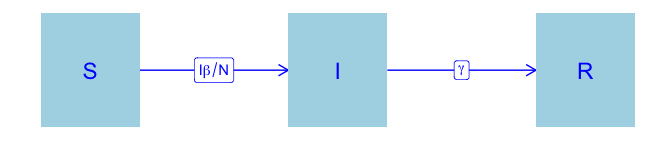
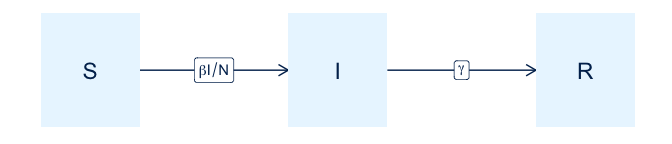
reports and docs

diff --git a/inst/starter_models/shiver/README.md b/inst/starter_models/shiver/README.md
@@ -2,37 +2,25 @@ SHIVER = SEIR + H + V
 ================
 Jennifer Freeman, Steve Walker
 
--   <a href="#packages-used-and-settings"
-    id="toc-packages-used-and-settings">Packages Used and Settings</a>
--   <a href="#model-specification" id="toc-model-specification">Model
-    Specification</a>
--   <a href="#states" id="toc-states">States</a>
--   <a href="#parameters" id="toc-parameters">Parameters</a>
--   <a href="#variable-vaccination-rate"
-    id="toc-variable-vaccination-rate">Variable Vaccination Rate</a>
--   <a href="#dynamics" id="toc-dynamics">Dynamics</a>
--   <a href="#calibration-example" id="toc-calibration-example">Calibration
-    Example</a>
-    -   <a href="#calibration-scenario"
-        id="toc-calibration-scenario">Calibration Scenario</a>
-    -   <a href="#deciding-on-defaults" id="toc-deciding-on-defaults">Deciding
-        on Defaults</a>
-    -   <a href="#simulating-dynamics" id="toc-simulating-dynamics">Simulating
-        Dynamics</a>
-    -   <a href="#estimating-parameters"
-        id="toc-estimating-parameters">Estimating Parameters</a>
-    -   <a href="#re-parameterizing-and-introducing-transformations"
-        id="toc-re-parameterizing-and-introducing-transformations">Re-parameterizing
-        and Introducing Transformations</a>
-    -   <a href="#runge-kutta-4" id="toc-runge-kutta-4">Runge-Kutta 4</a>
-    -   <a href="#fitting-to-multiple-trajectories"
-        id="toc-fitting-to-multiple-trajectories">Fitting to Multiple
-        Trajectories</a>
-    -   <a href="#parameter-identifiability"
-        id="toc-parameter-identifiability">Parameter Identifiability</a>
--   <a href="#model-specification-1" id="toc-model-specification-1">Model
-    Specification</a>
--   <a href="#references" id="toc-references">References</a>
+- [Packages Used and Settings](#packages-used-and-settings)
+- [Model Specification](#model-specification)
+- [States](#states)
+- [Parameters](#parameters)
+- [Variable Vaccination Rate](#variable-vaccination-rate)
+- [Dynamics](#dynamics)
+- [Calibration Example](#calibration-example)
+  - [Calibration Scenario](#calibration-scenario)
+  - [Deciding on Defaults](#deciding-on-defaults)
+  - [Simulating Dynamics](#simulating-dynamics)
+  - [Estimating Parameters](#estimating-parameters)
+  - [Re-parameterizing and Introducing
+    Transformations](#re-parameterizing-and-introducing-transformations)
+  - [Runge-Kutta 4](#runge-kutta-4)
+  - [Fitting to Multiple
+    Trajectories](#fitting-to-multiple-trajectories)
+  - [Parameter Identifiability](#parameter-identifiability)
+- [Model Specification](#model-specification-1)
+- [References](#references)
 
 This model builds on the basic SEIR model, with two additional
 compartments for vaccination and hospitalizations.
@@ -115,22 +103,22 @@ article](https://github.com/canmod/macpan2/blob/main/inst/starter_models/shiver/
 | E        | Number of exposed individuals      |
 | R        | Number of recovered individuals    |
 
-The size of the total population is, $N = S + H + I + V + E + R$, and
+The size of the total population is, $N = S + H + I  + V + E + R$, and
 the disease spreads through homogeneous mixing of the subpopulation
 $N_{\text{mix}}=N -H$.
 
 # Parameters
 
-| variable   | description                                                                                         |
-|------------|-----------------------------------------------------------------------------------------------------|
-| $\phi$     | per capita vaccination rate of susceptibles                                                         |
-| $\rho$     | per capita vaccine waning rate                                                                      |
-| $\beta_S$  | per capita transmission rate for susceptibles (in $N_{\text{mix}}$ population)                      |
-| $\beta_V$  | per capita transmission rate for vaccinated individuals (in $N_{\text{mix}}$ population)            |
-| $\alpha$   | per capita infection rate (average time spent in compartment $E$ is $1/\alpha$)                     |
-| $\gamma_I$ | per capita recovery rate for infected individuals                                                   |
-| $\gamma_H$ | per capita recovery rate for hospitalized individuals                                               |
-| $\sigma$   | per capita rate at which infected individuals develop severe infections and require hospitalization |
+| variable | description |
+|----|----|
+| $\phi$ | per capita vaccination rate of susceptibles |
+| $\rho$ | per capita vaccine waning rate |
+| $\beta_S$ | per capita transmission rate for susceptibles (in $N_{\text{mix}}$ population) |
+| $\beta_V$ | per capita transmission rate for vaccinated individuals (in $N_{\text{mix}}$ population) |
+| $\alpha$ | per capita infection rate (average time spent in compartment $E$ is $1/\alpha$) |
+| $\gamma_I$ | per capita recovery rate for infected individuals |
+| $\gamma_H$ | per capita recovery rate for hospitalized individuals |
+| $\sigma$ | per capita rate at which infected individuals develop severe infections and require hospitalization |
 
 # Variable Vaccination Rate
 
@@ -629,25 +617,25 @@ print(reparameterized_spec)
 #> ---------------------
 #> Default values:
 #> ---------------------
-#>         matrix row col         value
-#>              a          1.684889e+04
-#>              b          1.684889e+04
-#>            rho          5.555556e-03
-#>         beta_s          2.000000e-01
-#>         beta_v          5.000000e-02
-#>          alpha          3.030303e-01
-#>        gamma_i          1.000000e-01
-#>        gamma_h          7.000000e-02
-#>          sigma          1.000000e-01
-#>              N          1.480000e+08
-#>              I          2.718571e+03
-#>              V          1.015657e+04
-#>              E          0.000000e+00
-#>              H          6.300000e+01
-#>              R          0.000000e+00
-#>        logit_p         -4.595120e+00
-#>       log_beta         -4.605170e+00
-#>  log_E_I_ratio         -4.605170e+00
+#>       quantity         value
+#>              a  1.684889e+04
+#>              b  1.684889e+04
+#>            rho  5.555556e-03
+#>         beta_s  2.000000e-01
+#>         beta_v  5.000000e-02
+#>          alpha  3.030303e-01
+#>        gamma_i  1.000000e-01
+#>        gamma_h  7.000000e-02
+#>          sigma  1.000000e-01
+#>              N  1.480000e+08
+#>              I  2.718571e+03
+#>              V  1.015657e+04
+#>              E  0.000000e+00
+#>              H  6.300000e+01
+#>              R  0.000000e+00
+#>        logit_p -4.595120e+00
+#>       log_beta -4.605170e+00
+#>  log_E_I_ratio -4.605170e+00
 #> 
 #> ---------------------
 #> Before the simulation loop (t = 0):
@@ -922,45 +910,45 @@ shiver_calibrator = mp_tmb_calibrator(
 
 Next we optimize, and look at our estimates.
 
-    #>                                   mat row   default  estimate std.error
-    #> 1                   time_var_rbf_beta   1    0.0000   -0.0300    0.0487
-    #> 2                   time_var_rbf_beta   2    0.0000    0.0485    0.0541
-    #> 3                   time_var_rbf_beta   3    0.0000   -0.0695    0.0679
-    #> 4                   time_var_rbf_beta   4    0.0000    0.1091    0.0907
-    #> 5                   prior_sd_rbf_beta   0    1.0000    0.5297    0.0177
-    #> 6                   distr_params_sd_H   0    1.0000    0.0752    0.0157
-    #> 7  distr_params_sd_reported_incidence   0    1.0000    0.2209    0.0187
-    #> 8                   time_var_rbf_beta   0    0.0000   -0.0270    0.0431
-    #> 9                                beta   0    0.0100    0.3099    0.0443
-    #> 10                              sigma   0    0.0498    0.0336    0.0113
-    #> 11                            gamma_h   0    0.0498    0.9811    0.1856
-    #> 12                          E_I_ratio   0    0.0100    0.0851    0.1017
-    #> 13                                  I   0 2718.5714 2986.9423  943.6758
-    #> 14                                  H   0   63.0000    0.1453    2.9807
-    #> 15                                  R   0    1.0000    1.0000   54.5981
-    #> 16                        report_prob   0    0.5000    0.8292    0.2194
-    #> 17                                  p   0    0.0100    0.2197    9.1710
+    #>                                   mat row   default   estimate  std.error
+    #> 1                   time_var_rbf_beta   1    0.0000     0.2706        NaN
+    #> 2                   time_var_rbf_beta   2    0.0000    -0.0580     0.1147
+    #> 3                   time_var_rbf_beta   3    0.0000    -0.0752     0.3265
+    #> 4                   time_var_rbf_beta   4    0.0000     0.0829     0.8638
+    #> 5                   prior_sd_rbf_beta   0    1.0000     0.5297     0.0177
+    #> 6                   distr_params_sd_H   0    1.0000     0.0732     0.0051
+    #> 7  distr_params_sd_reported_incidence   0    1.0000     1.8991     0.1423
+    #> 8                   time_var_rbf_beta   0    0.0000    -0.4327        NaN
+    #> 9                                beta   0    0.0100     0.8061     0.2597
+    #> 10                              sigma   0    0.0498     0.0004     0.0003
+    #> 11                            gamma_h   0    0.0498     0.0233     0.0022
+    #> 12                          E_I_ratio   0    0.0100     0.0839     0.1239
+    #> 13                                  I   0 2718.5714 28127.2583 22697.4586
+    #> 14                                  H   0   63.0000    97.0439     7.5258
+    #> 15                                  R   0    1.0000     1.0000    54.5978
+    #> 16                        report_prob   0    0.5000     0.5631     0.4171
+    #> 17                                  p   0    0.0100     0.2405     9.8432
     #>     conf.low    conf.high
-    #> 1    -0.1255 6.550000e-02
-    #> 2    -0.0576 1.546000e-01
-    #> 3    -0.2026 6.360000e-02
-    #> 4    -0.0687 2.869000e-01
+    #> 1        NaN          NaN
+    #> 2    -0.2828 1.668000e-01
+    #> 3    -0.7150 5.647000e-01
+    #> 4    -1.6102 1.776000e+00
     #> 5     0.4951 5.643000e-01
-    #> 6     0.0445 1.060000e-01
-    #> 7     0.1843 2.574000e-01
-    #> 8    -0.1116 5.750000e-02
-    #> 9     0.2342 4.102000e-01
-    #> 10    0.0174 6.490000e-02
-    #> 11    0.6772 1.421400e+00
-    #> 12    0.0082 8.853000e-01
-    #> 13 1608.0649 5.548174e+03
-    #> 14    0.0000 4.193101e+16
-    #> 15    0.0000 2.978526e+46
-    #> 16    0.1891 9.902000e-01
+    #> 6     0.0631 8.330000e-02
+    #> 7     1.6201 2.178100e+00
+    #> 8        NaN          NaN
+    #> 9     0.4287 1.515700e+00
+    #> 10    0.0001 1.600000e-03
+    #> 11    0.0193 2.810000e-02
+    #> 12    0.0046 1.518600e+00
+    #> 13 5784.2259 1.367759e+05
+    #> 14   83.3599 1.129742e+02
+    #> 15    0.0000 2.978104e+46
+    #> 16    0.0444 9.728000e-01
     #> 17    0.0000 1.000000e+00
 
 Our prior for `sigma` is similar to the posterior, but `gamma_h` seems
-to have been pushed up by the data from about `0.05` to about 0.98. We
+to have been pushed up by the data from about `0.05` to about 0.02. We
 still do not have confidence in our estimate of `p`. We now have five
 other parameters controlling transmission, and so to interpret them we
 really need a plot of how transmission varies over time in the model. We
@@ -1092,7 +1080,8 @@ for details).
 
 # References
 
-<div id="refs" class="references csl-bib-body hanging-indent">
+<div id="refs" class="references csl-bib-body hanging-indent"
+entry-spacing="0">
 
 <div id="ref-bolker2008" class="csl-entry">
 

diff --git a/inst/starter_models/sir/README.md b/inst/starter_models/sir/README.md
@@ -150,12 +150,12 @@ print(spec |> mp_expand())
 #> ---------------------
 #> Default values:
 #> ---------------------
-#>  matrix row col value
-#>    beta           0.2
-#>   gamma           0.1
-#>       N         100.0
-#>       I           1.0
-#>       R           0.0
+#>  quantity value
+#>      beta   0.2
+#>     gamma   0.1
+#>         N 100.0
+#>         I   1.0
+#>         R   0.0
 #> 
 #> ---------------------
 #> Before the simulation loop (t = 0):
@@ -165,7 +165,7 @@ print(spec |> mp_expand())
 #> ---------------------
 #> At every iteration of the simulation loop (t = 1 to T):
 #> ---------------------
-#> 1: infection ~ S * (I * beta/N)
+#> 1: infection ~ S * (beta * I/N)
 #> 2: recovery ~ I * (gamma)
 #> 3: S ~ S - infection
 #> 4: I ~ I + infection - recovery
